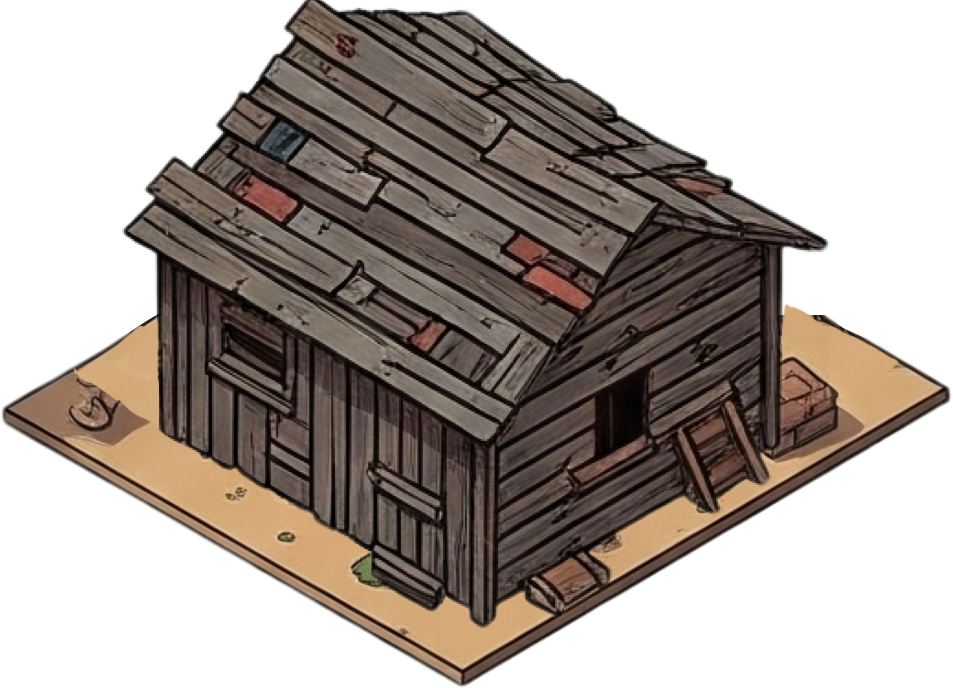
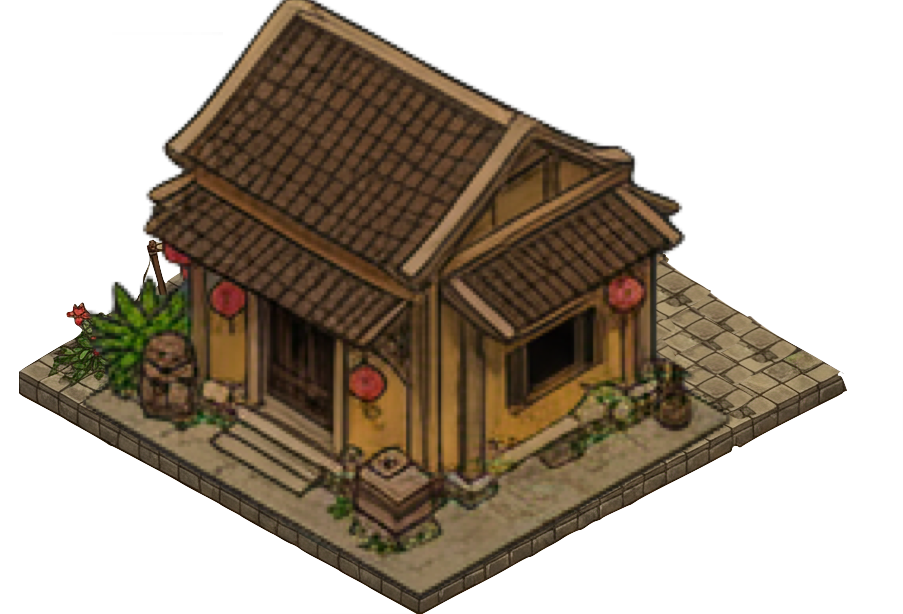
New house building sprites.
+ Random variation when settler spawns a house level 0.

diff --git a/game/src/debug/settings.rs b/game/src/debug/settings.rs
@@ -56,7 +56,8 @@ pub struct DebugSettingsMenu {
     #[debug_ui(edit)] show_selection_bounds: bool,
     #[debug_ui(edit)] show_cursor_pos: bool,
     #[debug_ui(edit)] show_screen_origin: bool,
-    #[debug_ui(edit)] show_render_stats: bool,
+    #[debug_ui(edit, separator)] show_render_stats: bool,
+
     #[debug_ui(edit)] show_game_configs_debug: bool,
     #[debug_ui(edit)] show_game_world_debug: bool,
     #[debug_ui(edit)] show_game_systems_debug: bool,
@@ -203,6 +204,11 @@ impl DebugSettingsMenu {
         ui.checkbox("Game World", &mut self.show_game_world_debug);
         ui.checkbox("Game Systems", &mut self.show_game_systems_debug);
         ui.checkbox("Log Viewer", &mut self.show_log_viewer_window);
+
+        let mut show_popup_messages = super::show_popup_messages();
+        if ui.checkbox("Popup Messages", &mut show_popup_messages) {
+            super::set_show_popup_messages(show_popup_messages);
+        }
     }
 
     fn camera_menu(&self, context: &mut sim::debug::DebugContext, camera: &mut Camera) {

diff --git a/game/src/game/building/house.rs b/game/src/game/building/house.rs
@@ -1004,10 +1004,17 @@ struct HouseUpgradeState {
 
 impl HouseUpgradeState {
     fn new(level: HouseLevel, configs: &'static BuildingConfigs) -> Self {
+        let curr_level_config = Some(configs.find_house_level_config(level));
+        let next_level_config = if !level.is_max() {
+            Some(configs.find_house_level_config(level.next()))
+        } else {
+            curr_level_config
+        };
+
         Self {
             level,
-            curr_level_config: Some(configs.find_house_level_config(level)),
-            next_level_config: Some(configs.find_house_level_config(level.next())),
+            curr_level_config,
+            next_level_config,
             has_room_to_upgrade: true,
         }
     }

diff --git a/game/src/game/system/settlers.rs b/game/src/game/system/settlers.rs
@@ -194,6 +194,8 @@ impl Settler {
                     Ok(building) => {
                         debug_assert!(building.is(BuildingKind::House));
 
+                        building.set_random_variation(query);
+
                         let population_to_add = extra_args[0].as_u32();
                         debug_assert!(population_to_add != 0);
 

diff --git a/game/src/game/building/mod.rs b/game/src/game/building/mod.rs
@@ -475,6 +475,11 @@ impl Building {
         false
     }
 
+    pub fn set_random_variation(&self, query: &Query) {
+        let context = self.new_context(query);
+        context.set_random_building_variation();
+    }
+
     // ----------------------
     // Building Resources:
     // ----------------------
